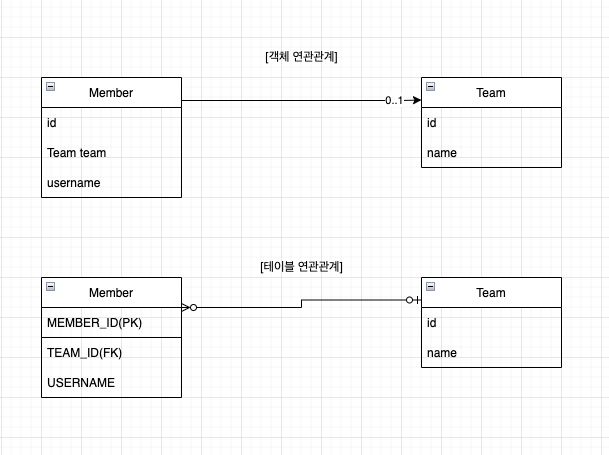
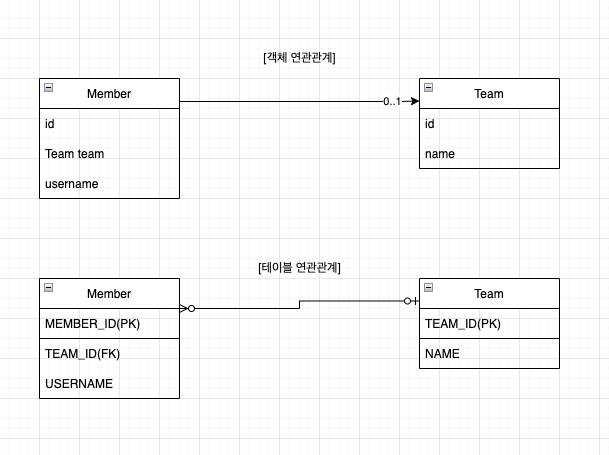
Add: JPA_연관관계매핑 양방향 연관관계

diff --git a/JPA/양방향연관관계.md b/JPA/양방향연관관계.md
@@ -1,0 +1,92 @@
+# 양방향 연관관계
+![](/img/양방향연관관계.png)
+[이전](./단방향연관관계.md) 단방향 연관관계에서 사용했던 예시에서 회원과 팀의 관계를 양방향 연관관계로 수정했다.
+- 객체 연관관계
+    - 팀은 이제 여러 회원과 관계를 맺을 수 있기 때문에 Team.mebers를 List 컬렉션으로 설정한다.
+- 테이블 연관관계
+    - 데이터베이스 테이블은 외래 키 하나로 양방향으로 데이터를 조회할 수 있기 때문에 이전과 같이 양방향 관계이다.
+
+그렇다면 엔티티는 어떻게 수정이 되었을까?
+회원은 다 쪽의 관계를 가지고 있었기 때문에 수정될 사항이 없다.
+그러면 팀의 엔티티를 확인해보자.
+
+```java
+@Entity
+@Getter
+public class Team {
+
+    @Id
+    @Column(name = "TEAM_ID")
+    private String id;
+
+    private String name;
+
+    @OneToMany(mappedBy = "team")
+    private List<Member> members = new ArrayList<>();
+}
+```
+
+@OneToMany 애노테이션과 속성인 mappedBy가 추가된 것을 확인할 수 있다.
+이를 알아보기 전에 먼저 *연관관계의 주인* 이라는 개념부터 알아보자.
+
+## 연관관계의 주인
+엄밀히 말하면 객체 연관관계에서 양방향 연관관게라는 것은 없다. 사실 서로 다른 단방향 연관관계가 2개 존재할 뿐이다. 그런데 테이블 연관관계는 외래 키 하나만으로 양 테이블을 서로 조인할 수 있다. 즉, 외래 키 하나로 두 테이블의 연관관계를 관리할 수 있는 것이다.
+
+여기서 엔티티를 양방향 연관관계로 설정하면 객체의 참조는 둘인데 외래 키는 하나라는 차이가 발생한다. 이런 차이로 JPA는 두 객체 연관관계 중 하나를 정해 테이블의 외래 키를 관리해야 하는데 이를 연관관계의 주인이라고 한다.
+
+### 양방향 매핑의 규칙?
+양방향 연관관계 매핑 시 반드시 지켜야 할 규칙이 있다. 두 연관관계 중 하나를 연관관계의 주인으로 정해야 한다는 것이다. 연관관계의 주인만이 데이터베이스 연관관계와 매핑되고 외래 키를 관리할 수 있고 주인이 아닌 쪽은 읽기만 할 수 있다. 즉, 연관관계의 주인을 정한다는 것은 외래 키 사실 외래 키 관리자를 선택하는 것으로 이해할 수 있다.
+
+mappedBy 속성을 통해 주인을 정할 수 있는데, 주인이 아닌쪽에 mappedBy 속성을 사용하면된다. 위 예제에서는 회원 테이블에 있는 TEAM_ID를 관리할 관리자를 선택하면 된다. Team.members를 주인으로 선택하면 물리적으로 전혀 다른 테이블의 외래 키를 관리해야 하기 때문에 어색하다. 이때는 Member.team을 연관관계의 주인으로 선택하면 된다.
+
+위에서 알 수 있듯이 연관관계의 주인은 외래 키가 있는 곳이다.
+
+## 양방향 연관관계 사용
+```java
+public void testSave() {
+
+    Team team1 = new Team("team1", "팀1");
+    em.persist(team1);
+
+    Member member1 = new Member("member1", "회원1");
+    member1.setTeam(team1);
+    em.persist(member1);
+
+    Member member2 = new Member("member2", "회원2");
+    member2.setTeam(team1);
+    em.persist(member2);
+}
+```
+회원 1과 회원 2에 연관관계의 주인인 Member.team 필드를 통해 회원과 팀의 연관관계를 설정하고 영속성 컨텍스트에 저장했다.
+
+주의할 점이 있는데 연관관계의 주인에 데이터를 입력하지 않고 연관관계의 주인이 아닌 곳에만 데이터를 넣는 것이다. 이때 데이테베이스의 외래 키가 지정되지 않을 수 있으니 기억해두자.
+
+사실 객체 관점에서는 양쪽 방향에 모두 값을 입력해주는 것이 가장 안전하다.
+
+또 주의할 점이 있는데 연관관계를 수정할 때이다.
+```java
+public void setTeam(Team team) {
+    this.team = team;
+    team.getMembers().add(this);
+}
+```
+```java
+member1.setTeam(team1);
+member2.setTeam(team2);
+Member findMember = team1.getMember();  // 여전히 member1 조회된다.
+```
+team1 -> member1 관계를 제거하지 않아 team1의 멤버리스트에서 여전히 member1이 조회되는 문제가 발생한다. 따라서 이와 같이 코드를 수정해야한다.
+```java
+public void setTeam(Team team) {
+    if(this.team != null) {
+        this.team.getMembers().remove(this);
+    }
+    this.team = team;
+    team.getMembers().add(this);
+}
+```
+
+이와 같이 객체에서 양방향 연관관계를 사용하기 위해서는 로직을 견고하게 작성해야하는 것을 기억하자.
+
+## 참고 자료
+[자바 ORM 표준 JPA 프로그래밍](http://www.yes24.com/Product/Goods/19040233)

diff --git a/README.md b/README.md
@@ -57,3 +57,4 @@ Today I Learned 공부한 것들을 정리합니다.
 | **1** | **[엔티티매니저와 영속성 컨텍스트](/JPA/엔티티매니저.md)** |
 | **2** | **[엔티티매핑](/JPA/엔티티매핑.md)** |
 | **3** | **[단방향연관관계](/JPA/단방향연관관계.md)** |
+| **4** | **[양방향연관관계](/JPA/양방향연관관계.md)** |
